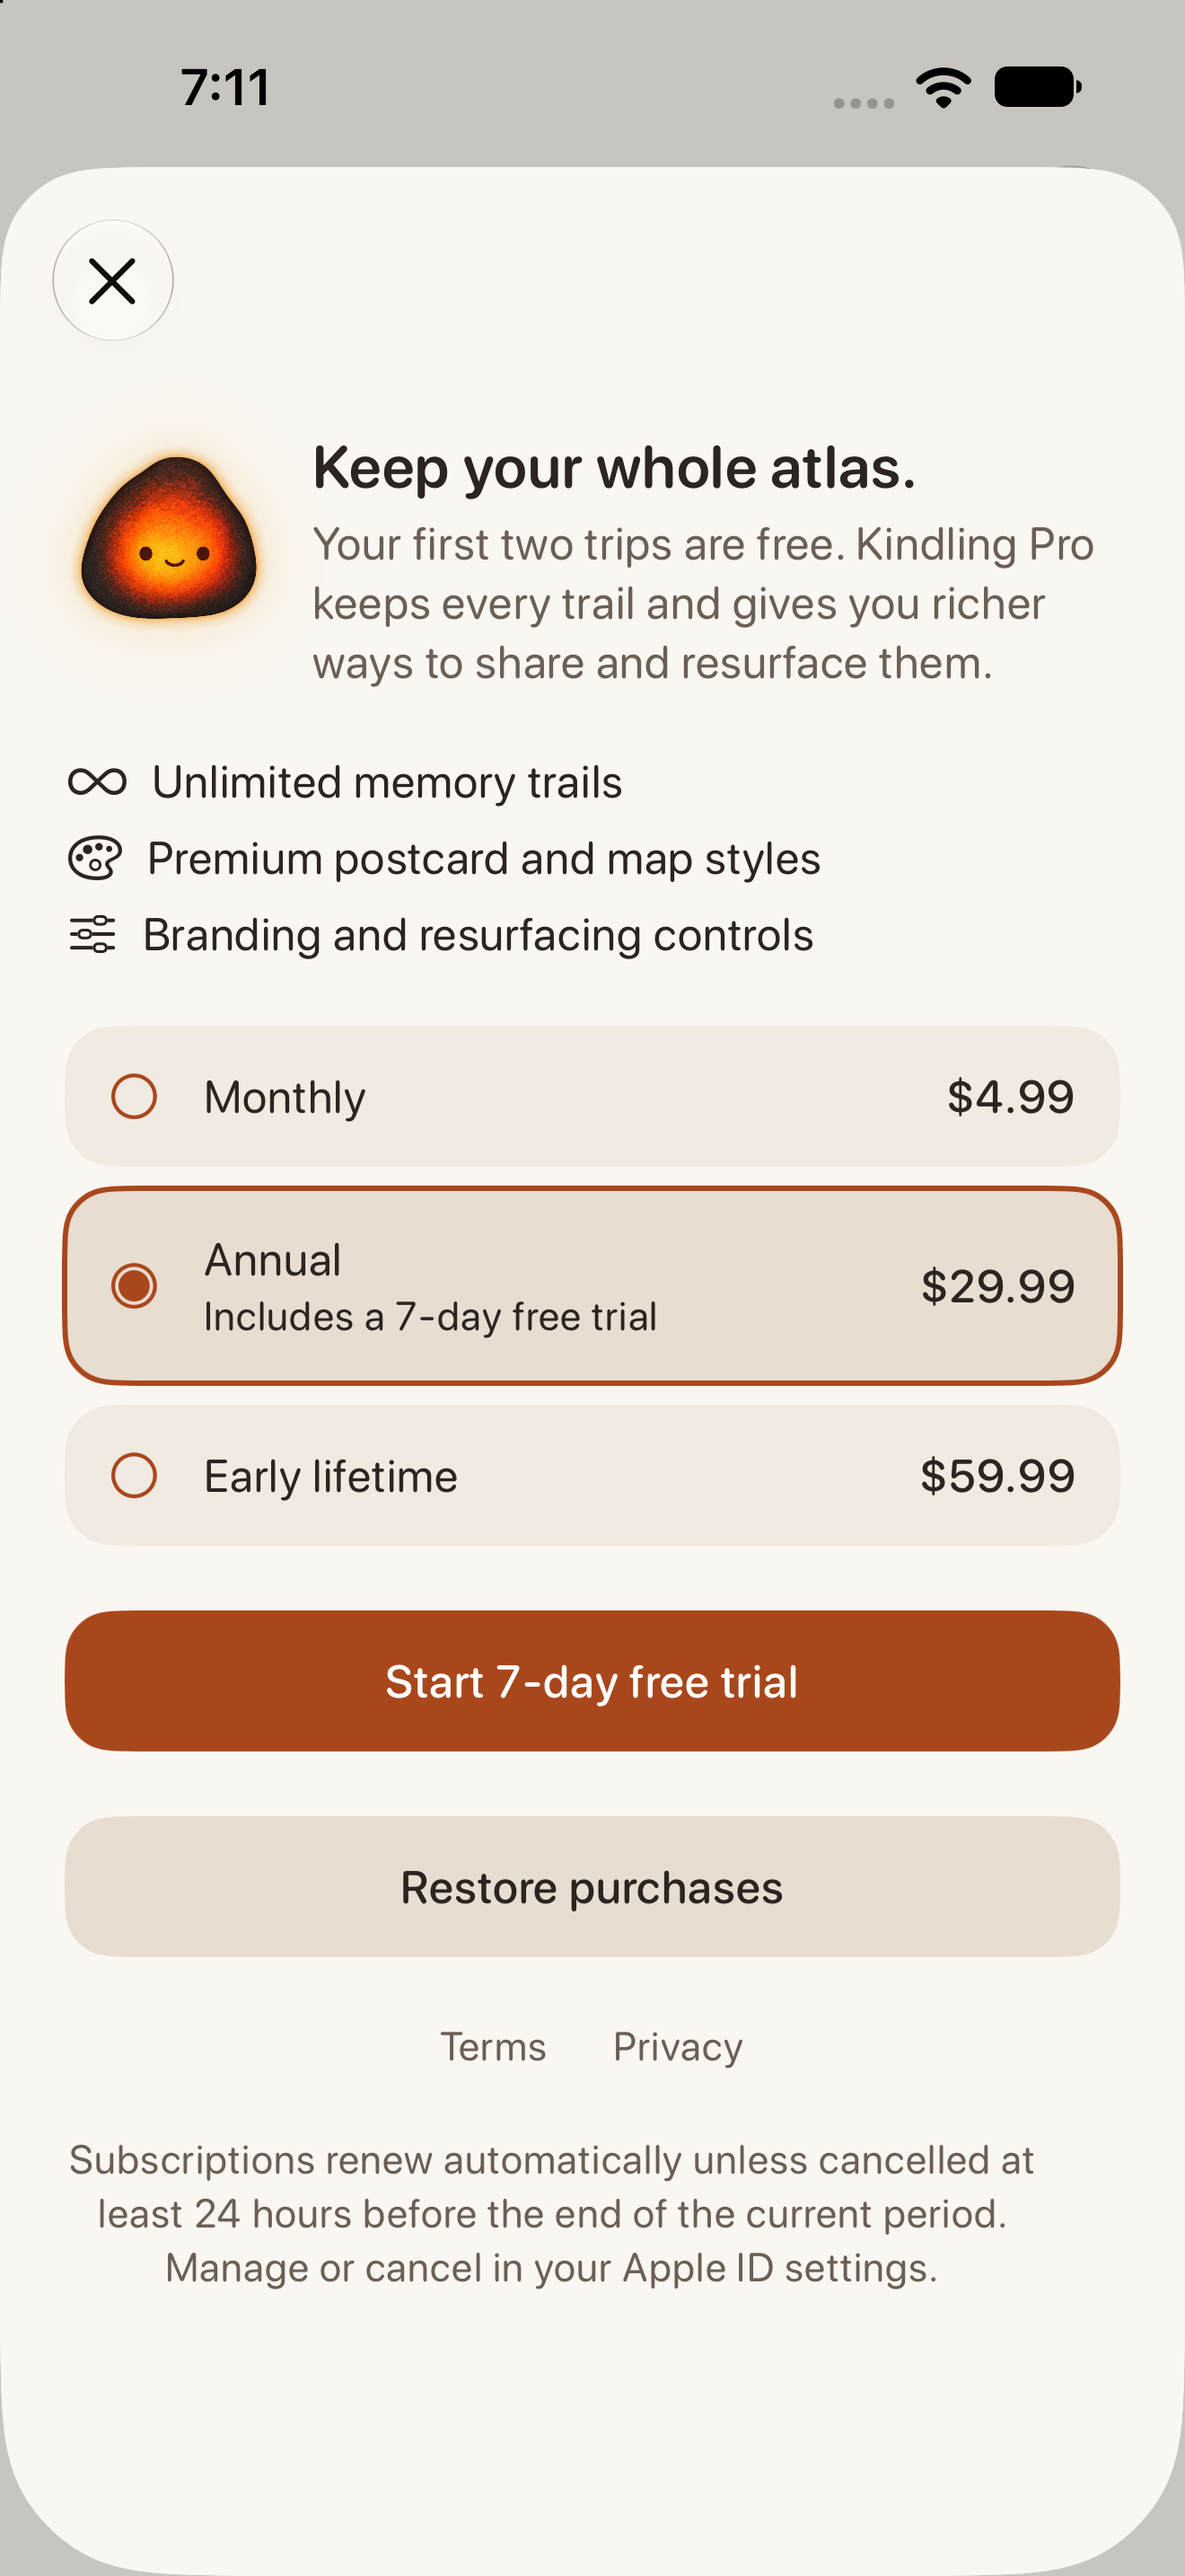
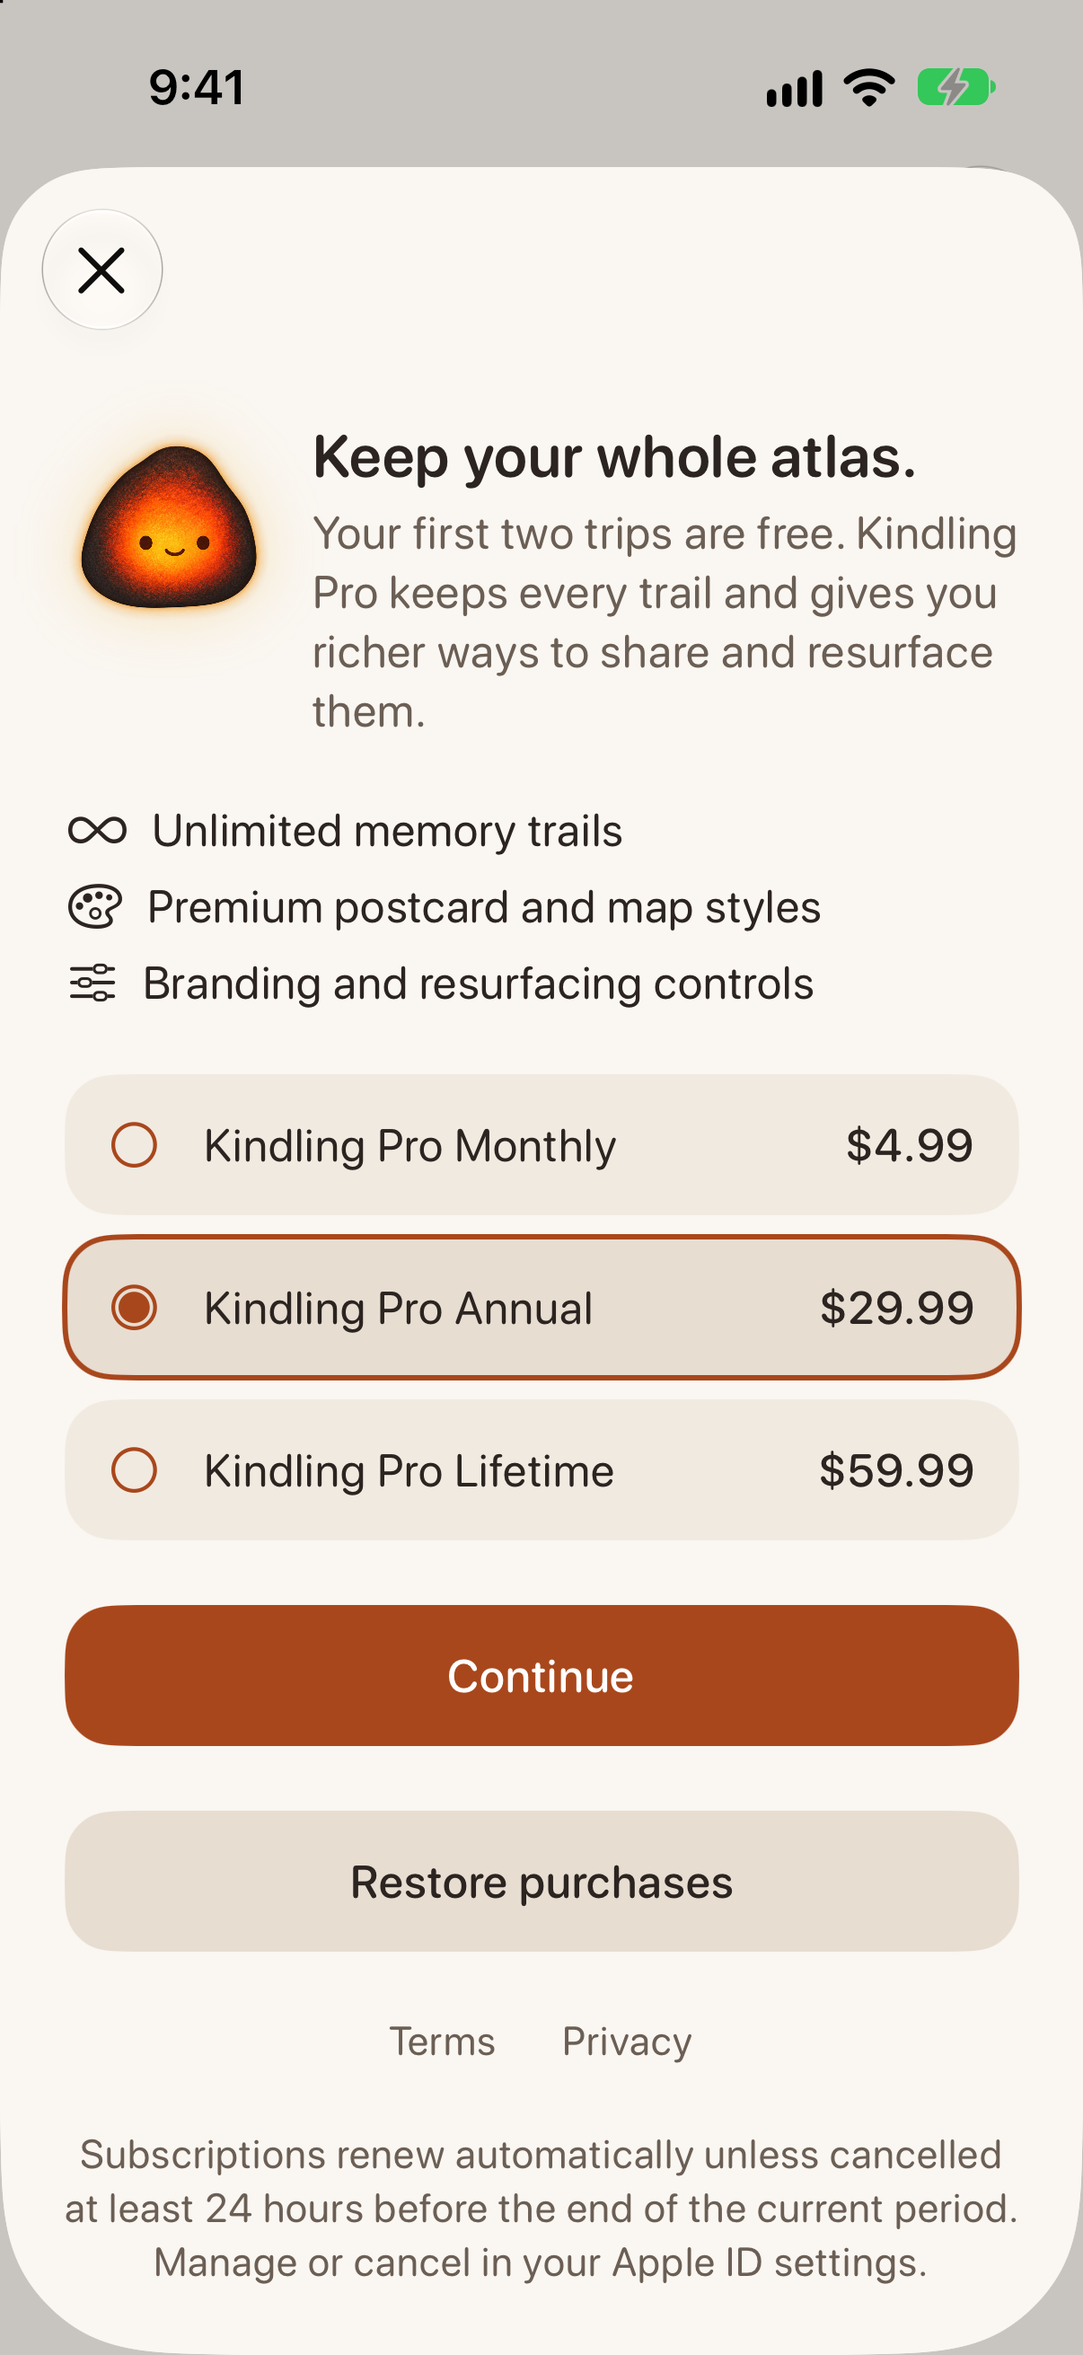
Record released memory app build 15

diff --git a/ios/Kindling/Billing/MemoryPaywallScreen.swift b/ios/Kindling/Billing/MemoryPaywallScreen.swift
@@ -12,7 +12,6 @@ struct PaywallScreen: View {
     var onPurchased: () -> Void = {}
 
     @State private var selectedProductID = ProductID.annual
-    @State private var introEligibility: [String: Bool] = [:]
     @State private var isLoading = true
     @State private var isPurchasing = false
     @State private var isRestoring = false
@@ -98,7 +97,7 @@ struct PaywallScreen: View {
         } else if store.products.isEmpty && isScreenshotRoute {
             VStack(spacing: Space.s1) {
                 previewProduct("Monthly", price: "$4.99", selected: false)
-                previewProduct("Annual", price: "$29.99", selected: true, trial: true)
+                previewProduct("Annual", price: "$29.99", selected: true)
                 previewProduct("Early lifetime", price: "$59.99", selected: false)
             }
         } else if store.products.isEmpty {
@@ -116,13 +115,12 @@ struct PaywallScreen: View {
         }
     }
 
-    private func previewProduct(_ name: String, price: String, selected: Bool, trial: Bool = false) -> some View {
+    private func previewProduct(_ name: String, price: String, selected: Bool) -> some View {
         HStack(spacing: Space.s2) {
             Image(systemName: selected ? "largecircle.fill.circle" : "circle")
                 .foregroundStyle(KindlingColor.accent)
             VStack(alignment: .leading, spacing: 2) {
                 Text(name).font(.kindlingBody)
-                if trial { Text("Includes a 7-day free trial").font(.kindlingCaption) }
             }
             Spacer()
             Text(price).font(.kindlingButton)
@@ -150,9 +148,6 @@ struct PaywallScreen: View {
                     .foregroundStyle(KindlingColor.accent)
                 VStack(alignment: .leading, spacing: 2) {
                     Text(product.displayName).font(.kindlingBody)
-                    if introEligibility[product.id] == true {
-                        Text("Includes a 7-day free trial").font(.kindlingCaption)
-                    }
                 }
                 Spacer()
                 Text(product.displayPrice).font(.kindlingButton)
@@ -177,10 +172,9 @@ struct PaywallScreen: View {
 
     private var purchaseButtonTitle: String {
         if isPurchasing { return "Checking with Apple…" }
-        if isScreenshotRoute { return "Start 7-day free trial" }
         guard let selectedProduct else { return "Continue" }
         if selectedProduct.id == ProductID.lifetime { return "Unlock forever" }
-        return introEligibility[selectedProduct.id] == true ? "Start 7-day free trial" : "Continue"
+        return "Continue"
     }
 
     private var isScreenshotRoute: Bool {
@@ -197,9 +191,6 @@ struct PaywallScreen: View {
         if !store.products.contains(where: { $0.id == selectedProductID }) {
             selectedProductID = store.products.first?.id ?? ProductID.annual
         }
-        var eligibility: [String: Bool] = [:]
-        for product in store.products { eligibility[product.id] = await store.isEligibleForIntroOffer(product) }
-        introEligibility = eligibility
         isLoading = false
     }
 

diff --git a/README.md b/README.md
@@ -9,7 +9,7 @@ The current product specification is [`spec.md`](spec.md). Documents that descri
 - `ios/` — native SwiftUI app, local `KindlingCore` and `KindlingUI` packages, and StoreKit configuration.
 - `landing/` — Astro website with current support, privacy, and terms pages.
 - `metadata/` — canonical English App Store metadata.
-- `screenshots/` — App Store screenshot automation and outputs; task-era images must be replaced before submission.
+- `screenshots/` — App Store screenshot automation and current memory-product outputs.
 - `prototype/`, `proxy/`, and older planning documents — legacy task-starter artifacts, not part of the current app or deployment path.
 
 ## Build and test

diff --git a/docs/memory-release-readiness.md b/docs/memory-release-readiness.md
@@ -1,6 +1,8 @@
 # Kindling memory pivot — release readiness
 
-Updated September 16, 2026. Target submission: December 7, 2026.
+Originally updated September 16, 2026. Release status checked October 19, 2026.
+
+Kindling 1.0 is released. App Store Connect reports version 1.0 as `READY_FOR_SALE`, with build 15 attached. The sections below preserve the pre-release readiness snapshot; its submission plan and build 13 warning no longer describe the current App Store state. The planned 12-person TestFlight and manual device audits were not recorded as completed in this document.
 
 ## Implemented
 
